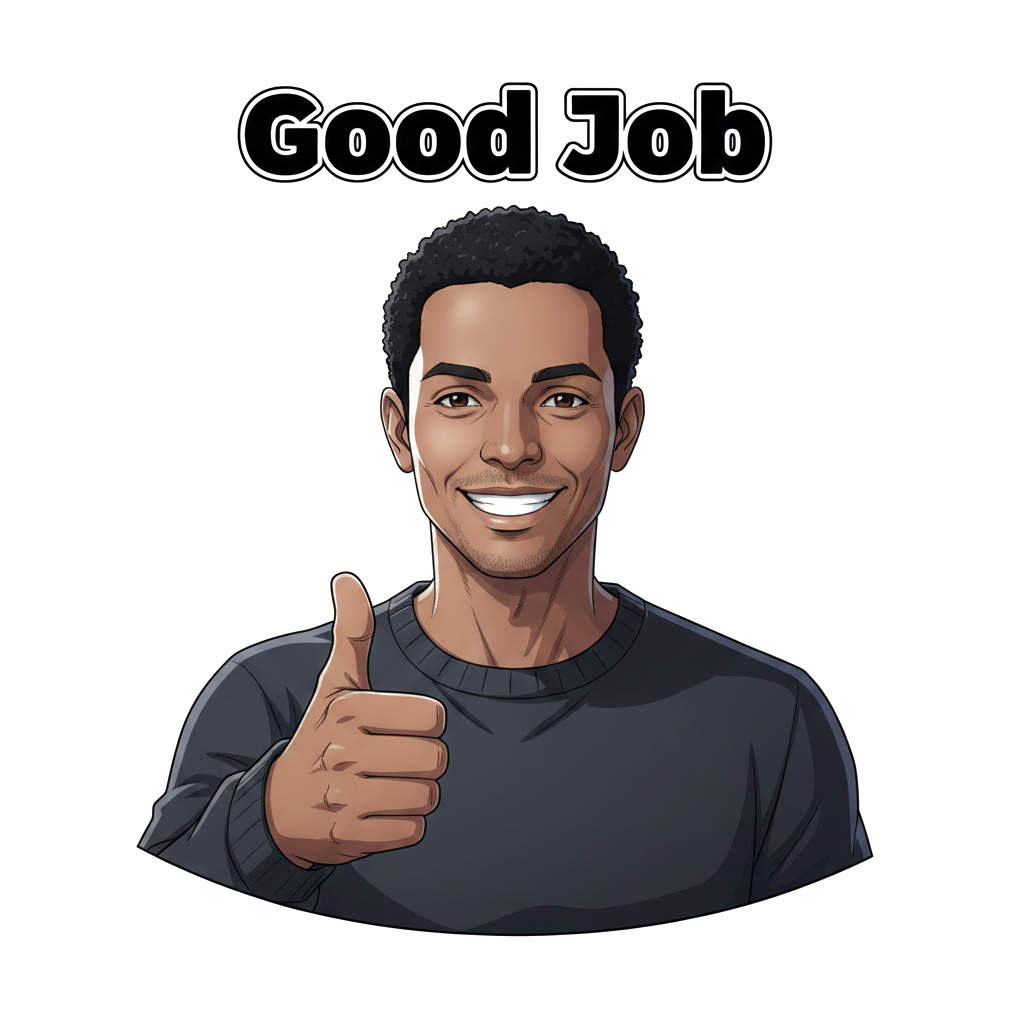
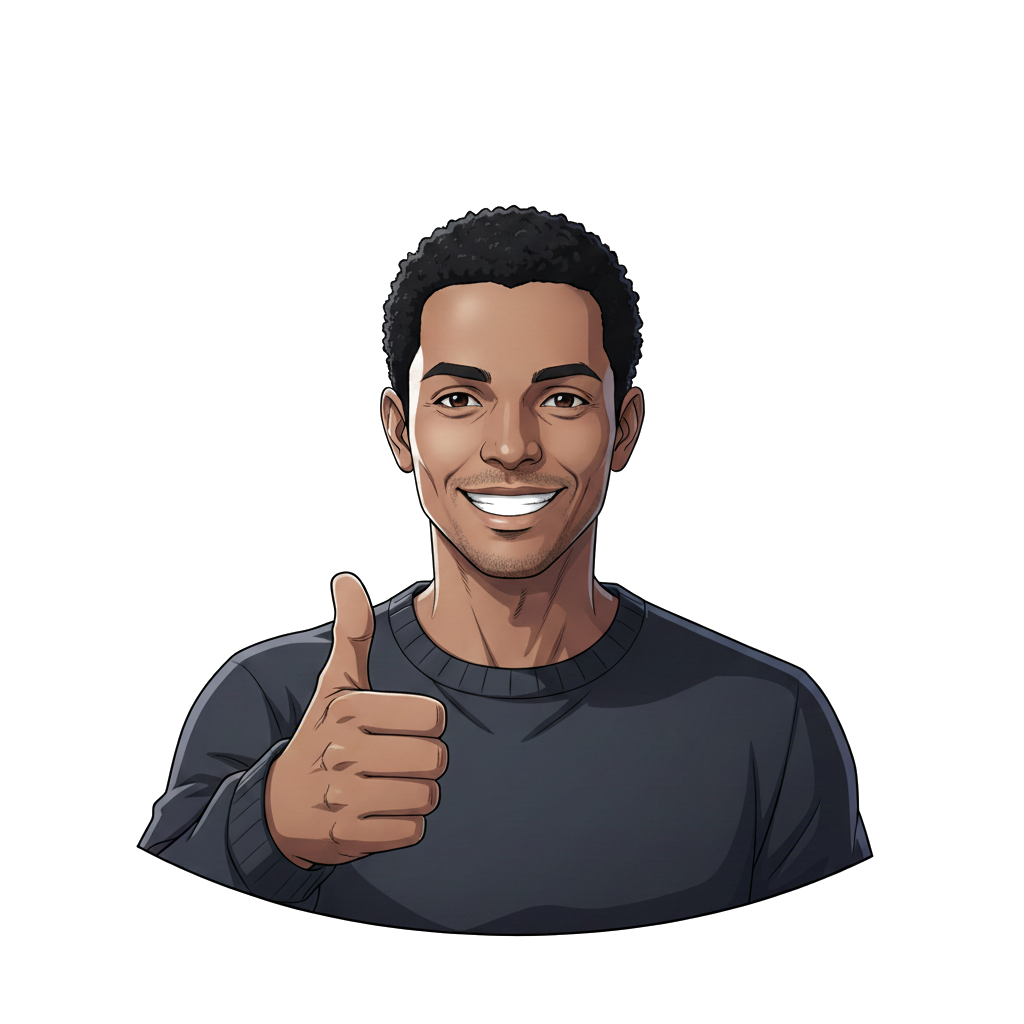
fix(sam): single bubble per page + remove reset panel from widget
User feedback (retour 6):
1. Double bubble on /donnees: SamPageBinder set "Importe tes donnees..."
   in the widget bubble AND the page's mount-time samNotify.info fired
   "Glisse ton fichier..." as a separate toast. Both rendered side-by-side
   (Image #7).
2. Reset Sam panel: clicking the widget opened a detail popup with a
   "Reset Sam" button — user wants Sam to be a passive companion, no
   override.
3. Updated assets for error / goodjob in Sam_Avatar/AvatarSeul/.

Changes:
- app/(pipeline)/donnees/page.tsx: drop the mount-time `samNotify.info`
  + the welcomeShownRef guard. PAGE_MESSAGES['/donnees'] via
  SamPageBinder already delivers the welcome bubble in the SamWidget.
- components/avatar/SamWidget.tsx: remove onClick handler, open state,
  detail panel, Reset button. The avatar is now a non-interactive role=img
  with `pointer-events-none` — purely passive.
- public/sam/cutout/{error,goodjob}.png: reprocessed from updated source
  PNGs in Sam_Avatar/AvatarSeul/ (corner-sampled background, soft alpha
  threshold). goodjob = clean thumbs-up cutout. Error keeps the red
  "post-its" composition (intentional mood design).

Validated via Playwright on /donnees:
- 1 Sam visible (based.png, 128px, bottom-right)
- 1 bubble: "Sam : Importe tes donnees brutes, je m'occupe du mapping auto."
- No toast overlap

Changed region(s): [[0.2188, 0.0625, 0.7812, 0.1875]]

diff --git a/apps/web/components/avatar/SamWidget.tsx b/apps/web/components/avatar/SamWidget.tsx
@@ -7,6 +7,8 @@ import { AnimatePresence, motion, useReducedMotion } from "framer-motion";
 import { cn } from "@/lib/utils";
 import { useSamStore } from "@/lib/sam/store";
 import { SAM_MOOD_TOKENS, samMoodImage } from "@/lib/sam/moods";
+// Note: detail panel + reset button removed — Sam is a passive companion,
+// users should not be able to override his contextual mood.
 
 /**
  * SamWidget — persistent avatar in the bottom-right corner, present on every
@@ -52,11 +54,8 @@ export function SamWidget() {
   const mood = useSamStore((s) => s.mood);
   const message = useSamStore((s) => s.message);
   const visible = useSamStore((s) => s.visible);
-  const clearMessage = useSamStore((s) => s.clearMessage);
-  const reset = useSamStore((s) => s.reset);
 
   const prefersReducedMotion = useReducedMotion();
-  const [open, setOpen] = React.useState(false);
   const [showBubble, setShowBubble] = React.useState(false);
 
   const bubbleId = React.useId();
@@ -118,63 +117,15 @@ export function SamWidget() {
         ) : null}
       </AnimatePresence>
 
-      {/* Detail panel — toggled by click */}
-      <AnimatePresence>
-        {open ? (
-          <motion.div
-            key="sam-detail"
-            initial={{ opacity: 0, y: 6 }}
-            animate={{ opacity: 1, y: 0 }}
-            exit={{ opacity: 0, y: 6 }}
-            transition={{ duration: 0.18 }}
-            className={cn(
-              "pointer-events-auto rounded-lg p-3 min-w-[180px]",
-              "bg-zinc-900/95 backdrop-blur-md border shadow-lg shadow-black/40",
-              tokens.border,
-            )}
-          >
-            <div className="flex items-center justify-between gap-3 mb-2">
-              <span className={cn("text-[10px] font-semibold uppercase tracking-wide", tokens.title)}>
-                Humeur
-              </span>
-              <span className="text-xs text-zinc-300">{mood}</span>
-            </div>
-            <button
-              type="button"
-              onClick={() => {
-                reset();
-                clearMessage();
-                setOpen(false);
-              }}
-              className={cn(
-                "w-full text-xs px-2 py-1.5 rounded-md",
-                "bg-zinc-800 hover:bg-zinc-700 text-zinc-100 transition-colors",
-                "focus:outline-none focus:ring-2 focus:ring-offset-2 focus:ring-offset-zinc-950",
-                "focus:ring-indigo-400/50",
-              )}
-            >
-              Reset Sam
-            </button>
-          </motion.div>
-        ) : null}
-      </AnimatePresence>
-
-      {/* Avatar — cutout silhouette (~128px) with mood-tinted glow */}
-      <motion.button
-        type="button"
-        aria-label={`Sam avatar (humeur courante: ${mood})`}
-        aria-haspopup="dialog"
-        aria-expanded={open}
+      {/* Avatar — cutout silhouette (~128px) with mood-tinted glow.
+          Non-interactive: Sam is a passive companion, no click-to-reset. */}
+      <motion.div
+        role="img"
+        aria-label={`Sam (humeur courante: ${mood})`}
         aria-describedby={message ? bubbleId : undefined}
-        onClick={() => setOpen((o) => !o)}
         animate={floatAnim}
         style={{ filter: MOOD_DROP_SHADOW[mood] ?? MOOD_DROP_SHADOW.based }}
-        className={cn(
-          "pointer-events-auto relative size-32 rounded-full bg-transparent",
-          "focus:outline-none focus-visible:ring-2 focus-visible:ring-offset-2",
-          "focus-visible:ring-offset-zinc-950 focus-visible:ring-indigo-400/70",
-          "transition-transform hover:scale-105",
-        )}
+        className="pointer-events-none relative size-32"
       >
         <Image
           src={samMoodImage(mood)}
@@ -184,7 +135,7 @@ export function SamWidget() {
           className="object-contain"
           priority={false}
         />
-      </motion.button>
+      </motion.div>
     </div>
   );
 }

diff --git a/apps/web/app/(pipeline)/donnees/page.tsx b/apps/web/app/(pipeline)/donnees/page.tsx
@@ -53,14 +53,10 @@ export default function DonneesPage() {
   const [isAutoMapping, setIsAutoMapping] = useState(false);
   const [showStepComplete, setShowStepComplete] = useState(false);
   const previewContainerRef = useRef<HTMLDivElement>(null);
-  const welcomeShownRef = useRef(false);
 
-  // Sam welcomes the user once on mount (idempotent across HMR)
-  useEffect(() => {
-    if (welcomeShownRef.current) return;
-    welcomeShownRef.current = true;
-    samNotify.info("Glisse ton fichier ici pour commencer.");
-  }, []);
+  // Welcome message is delivered by SamPageBinder via PAGE_MESSAGES['/donnees'].
+  // We deliberately skip a mount-time samNotify.info here so the toast doesn't
+  // duplicate the SamWidget bubble.
 
   const mappedCriticalCount = useMemo(() => {
     return mappings.filter(